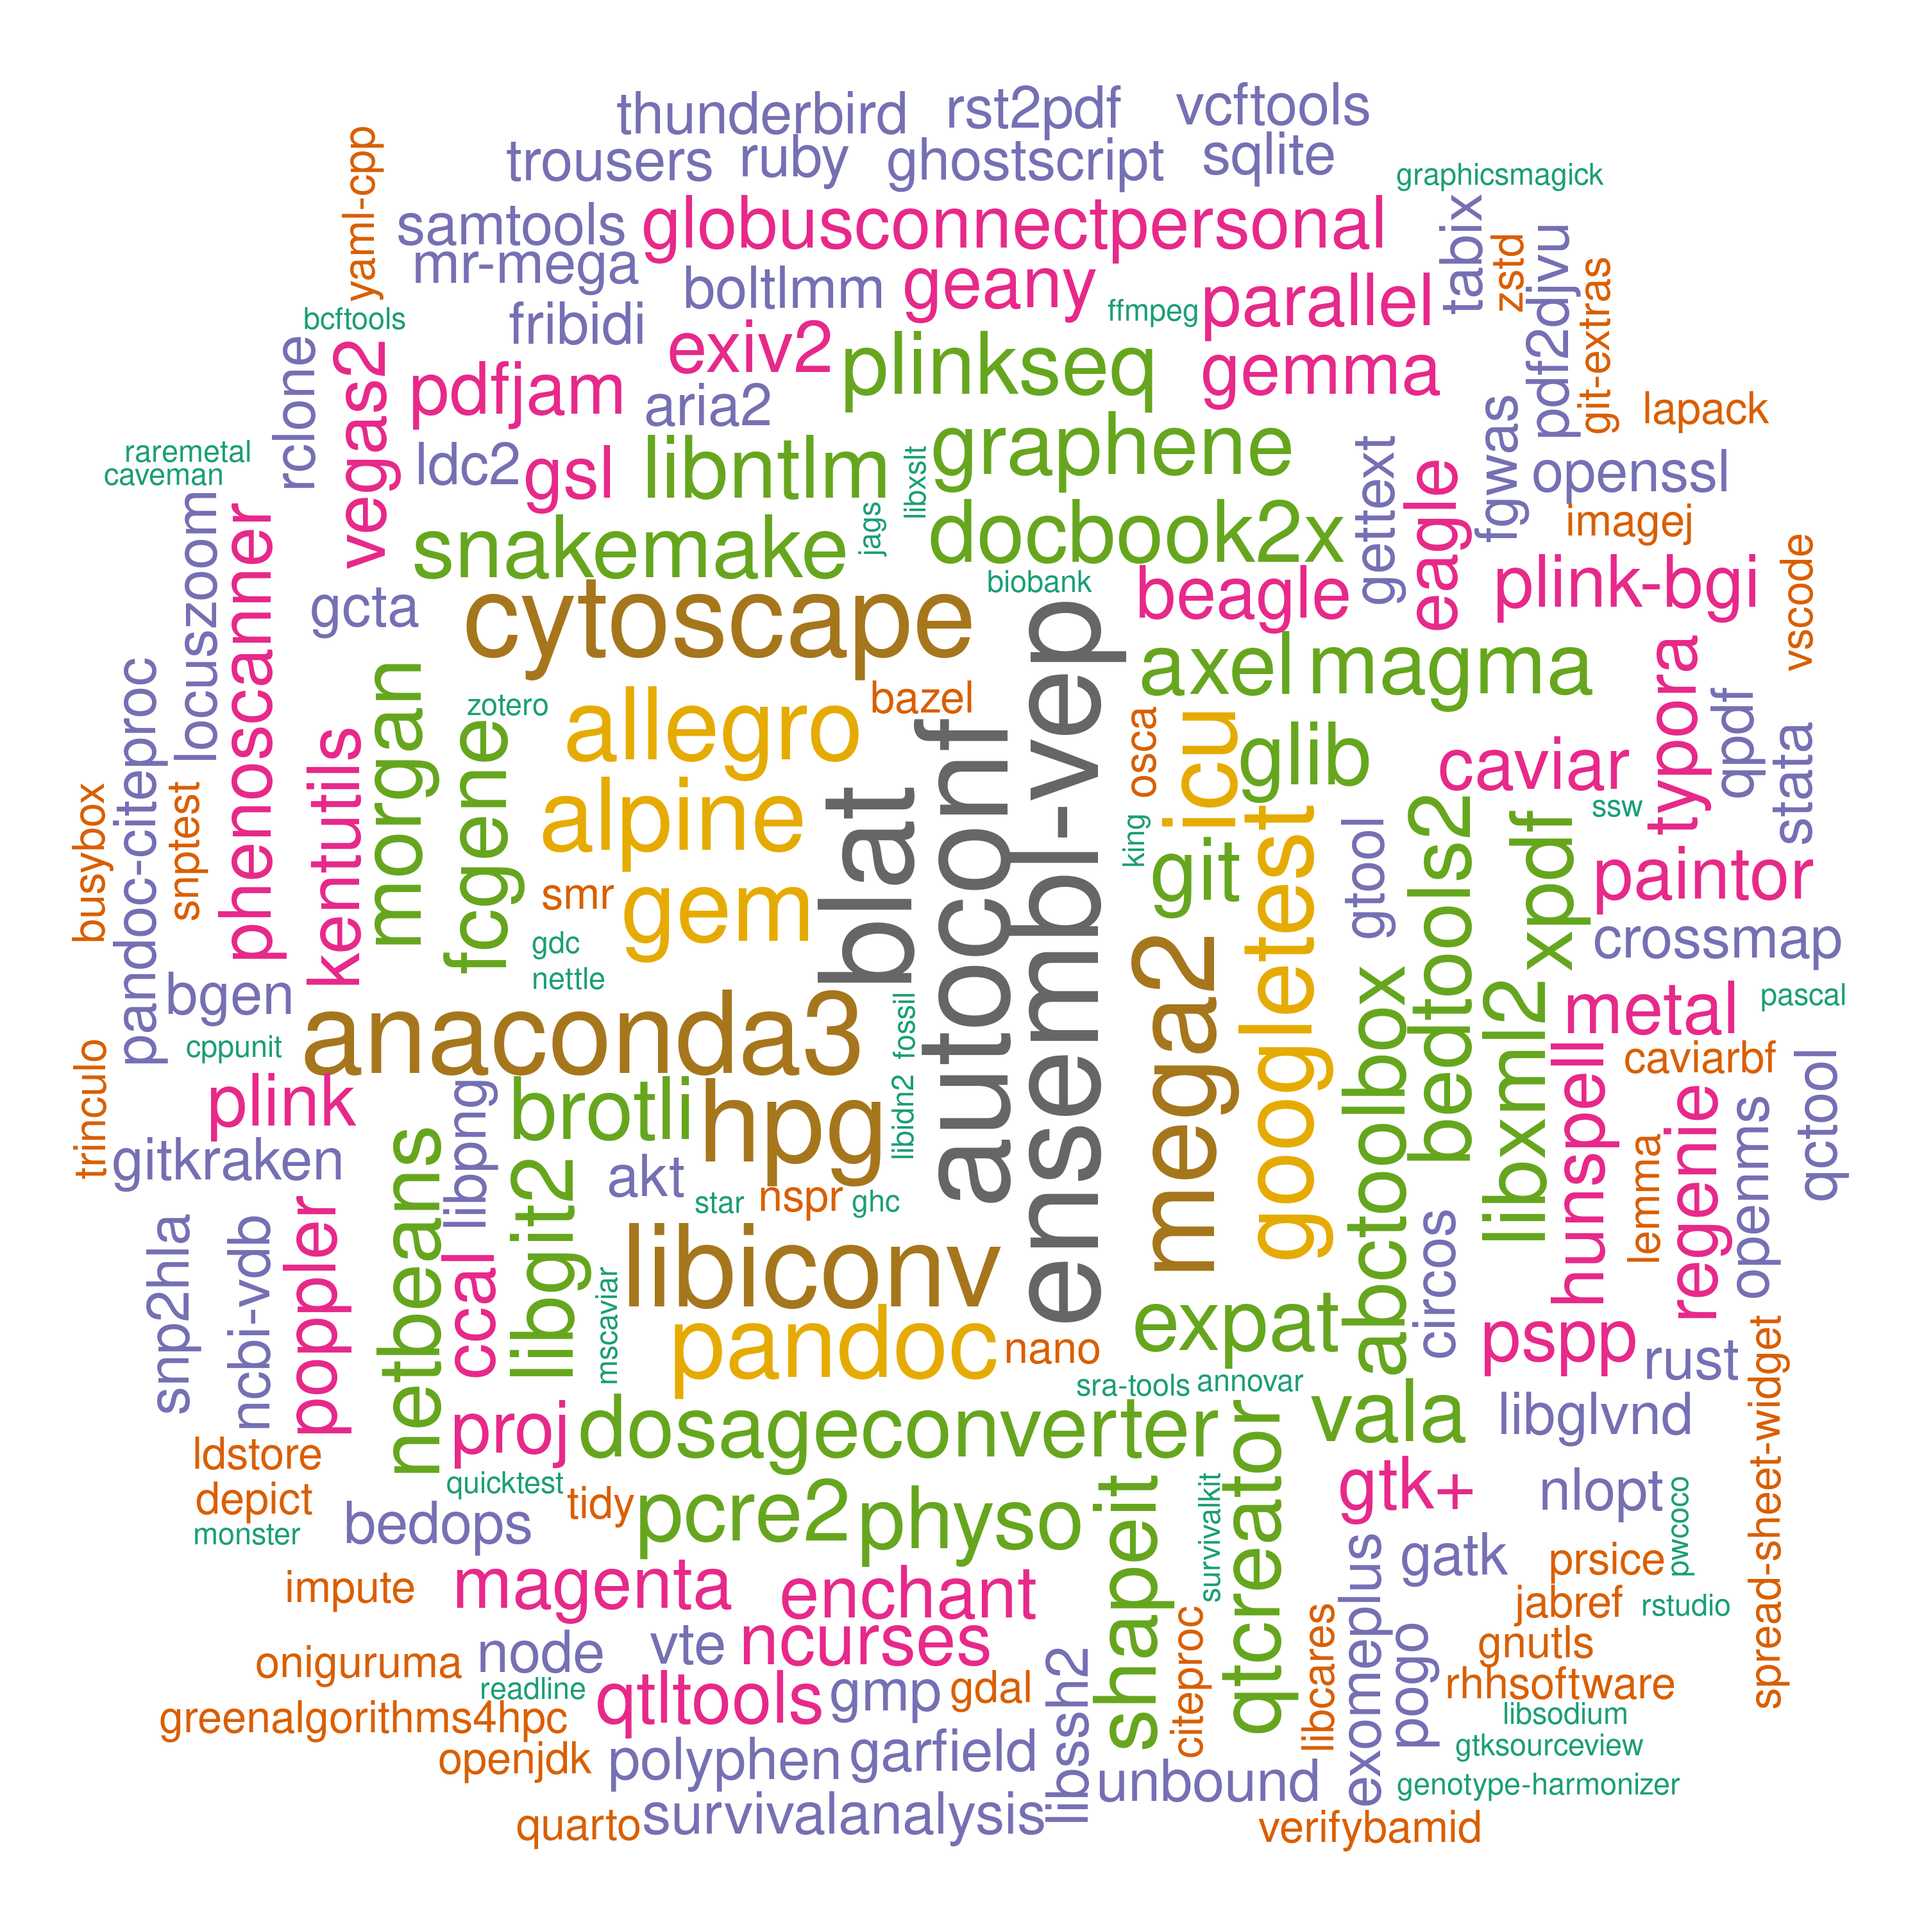
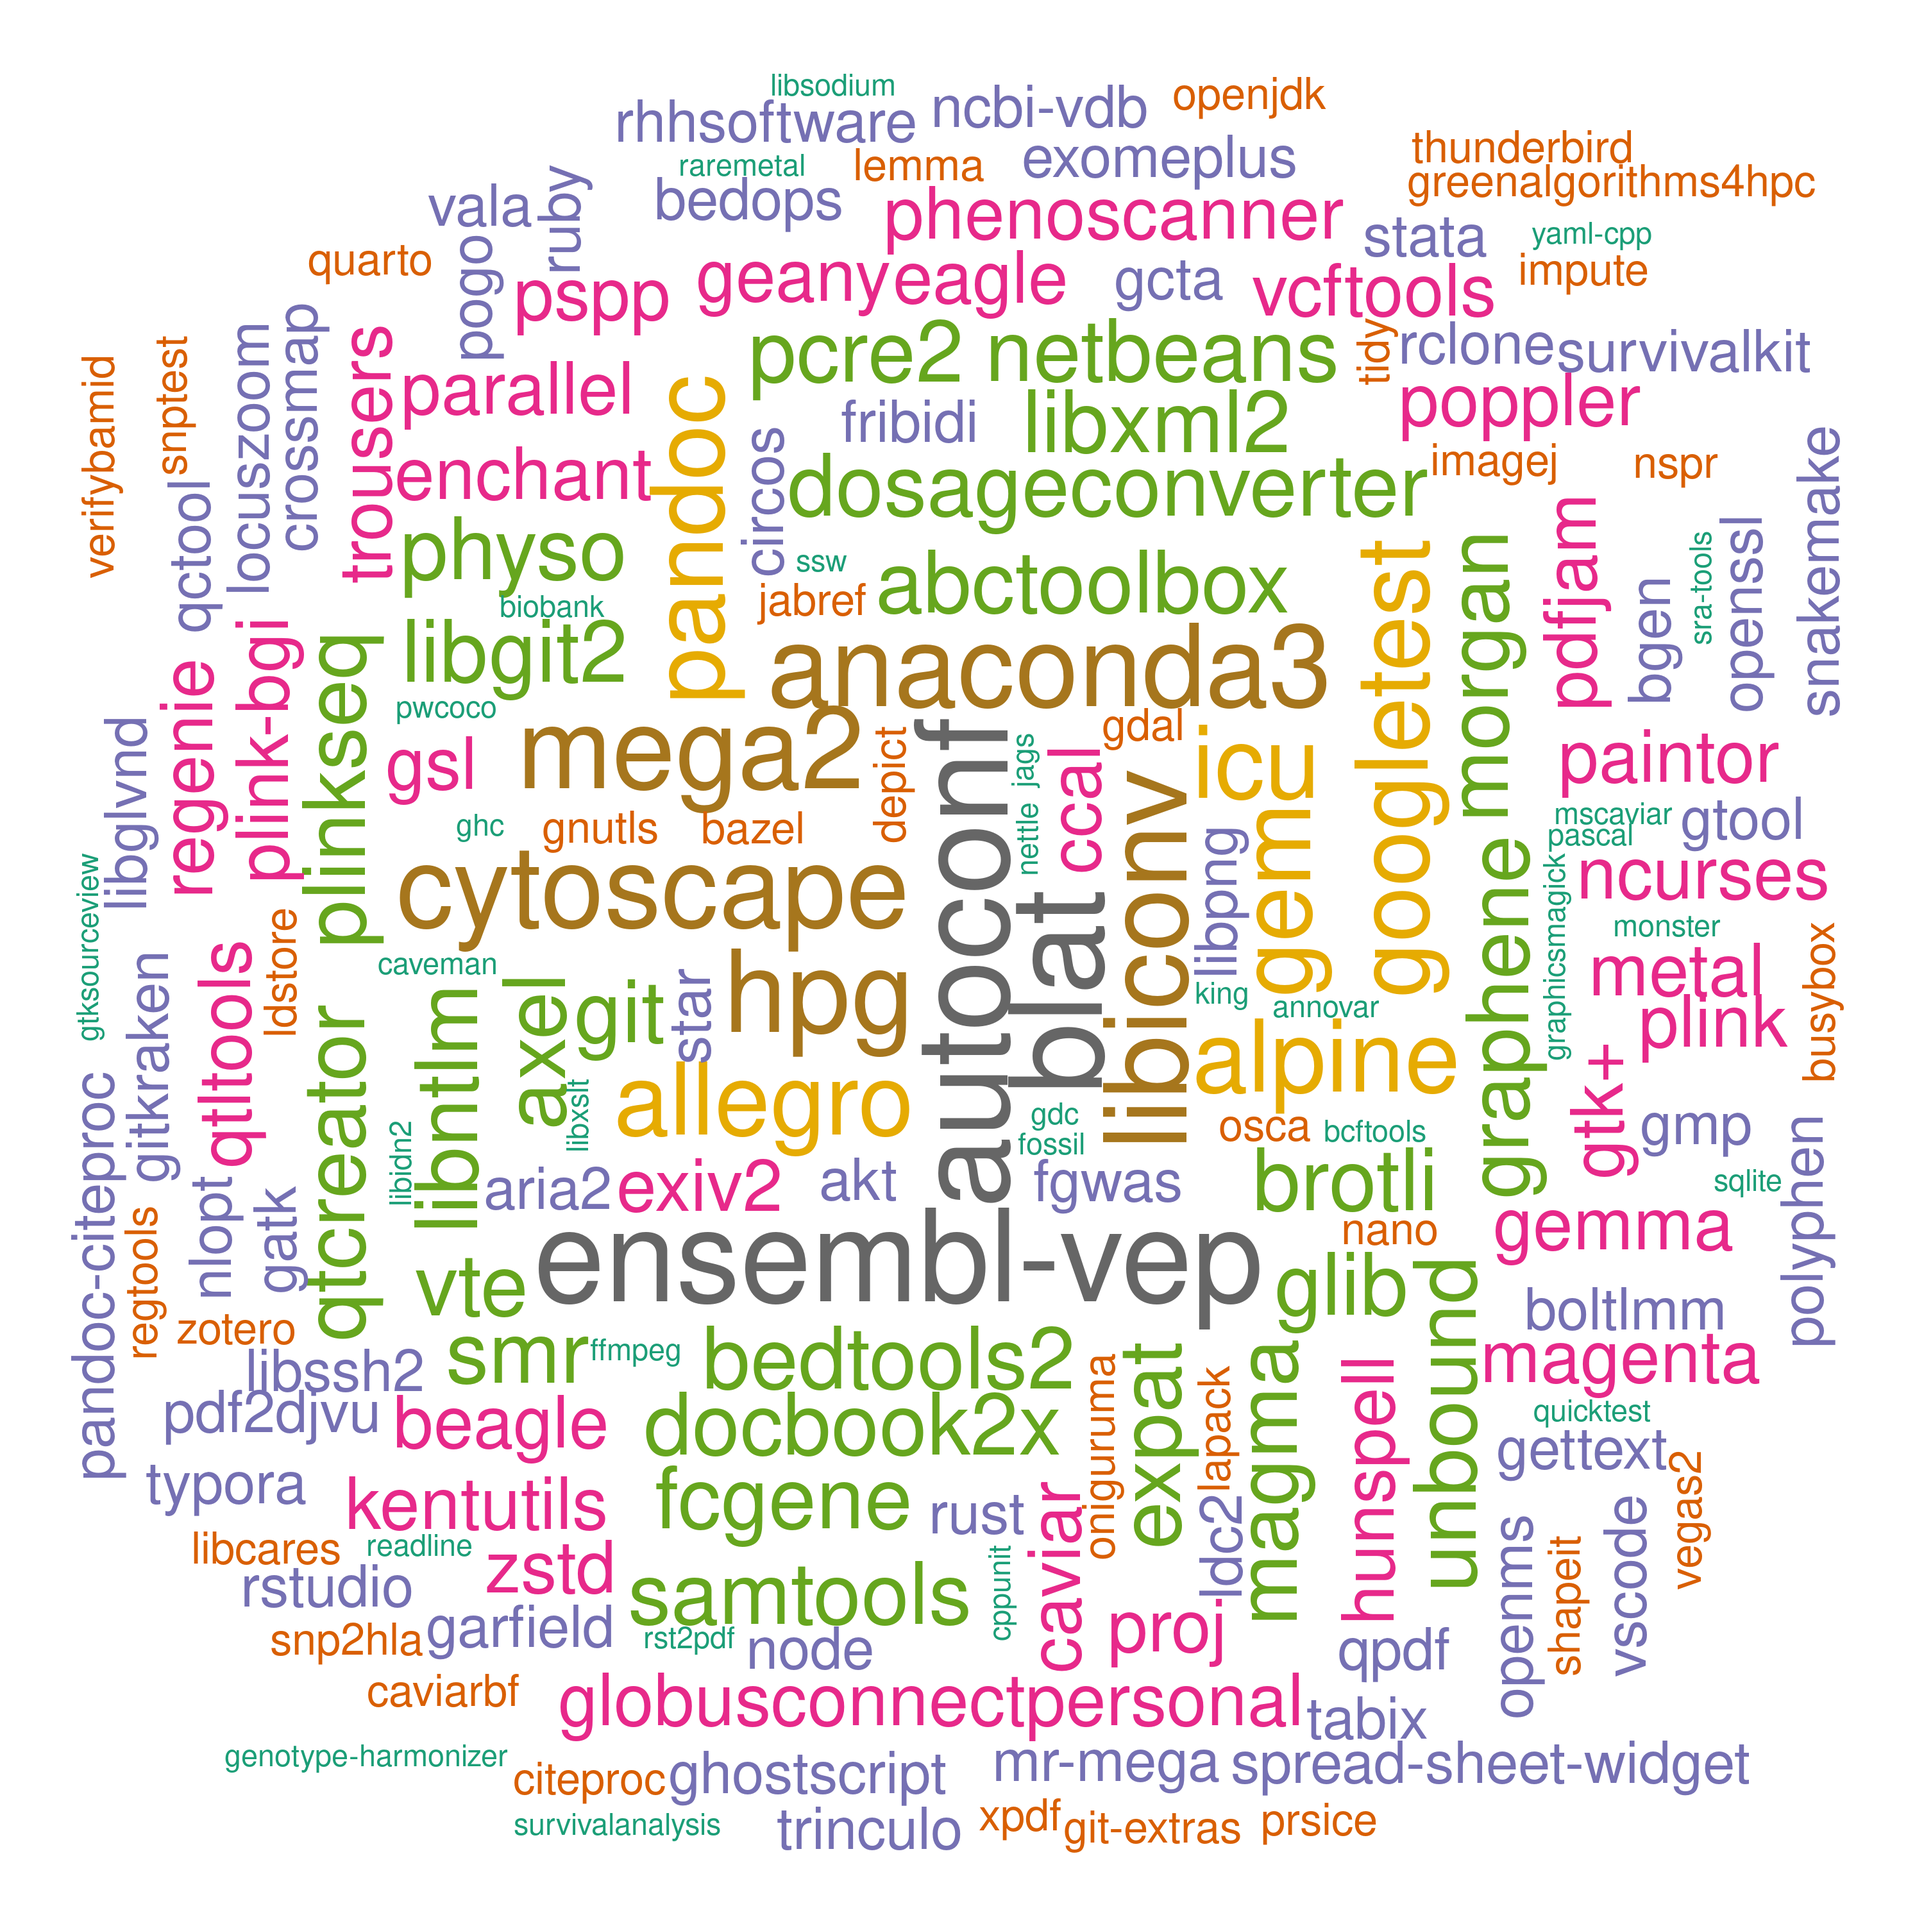
./

Changed region(s): [[0.031, 0.031, 0.961, 0.961]]

diff --git a/systems/files/ceuadmin.md b/systems/files/ceuadmin.md
@@ -57,19 +57,19 @@ The current list is as follows[^ls],
 [148] "qt"                    "qtcreator"             "QTLtools"
 [151] "quarto"                "quicktest"             "R"
 [154] "raremetal"             "rclone"                "readline"
-[157] "regenie"               "RHHsoftware"           "rst2pdf"
-[160] "rstudio"               "ruby"                  "rust"
-[163] "samtools"              "shapeit"               "SMR"
-[166] "snakemake"             "SNP2HLA"               "snptest"
-[169] "spread-sheet-widget"   "sqlite"                "sra-tools"
-[172] "ssw"                   "STAR"                  "stata"
-[175] "SurvivalAnalysis"      "SurvivalKit"           "tabix"
-[178] "thunderbird"           "tidy"                  "trinculo"
-[181] "trousers"              "Typora"                "unbound"
-[184] "vala"                  "vcftools"              "VEGAS2"
-[187] "verifyBamID"           "VSCode"                "vte"
-[190] "xpdf"                  "yaml-cpp"              "Zotero"
-[193] "zstd"
+[157] "regenie"               "regtools"              "RHHsoftware"
+[160] "rst2pdf"               "rstudio"               "ruby"
+[163] "rust"                  "samtools"              "shapeit"
+[166] "SMR"                   "snakemake"             "SNP2HLA"
+[169] "snptest"               "spread-sheet-widget"   "sqlite"
+[172] "sra-tools"             "ssw"                   "STAR"
+[175] "stata"                 "SurvivalAnalysis"      "SurvivalKit"
+[178] "tabix"                 "thunderbird"           "tidy"
+[181] "trinculo"              "trousers"              "Typora"
+[184] "unbound"               "vala"                  "vcftools"
+[187] "VEGAS2"                "verifyBamID"           "VSCode"
+[190] "vte"                   "xpdf"                  "yaml-cpp"
+[193] "Zotero"                "zstd"
 ```
 
 Most should be available to all CSD3 users in the whole campus, e.g., for pspp, a brief description of a module is available with
@@ -315,6 +315,7 @@ They are ordered chronologically.
 | 2023-12-13  | rust/1.74.1                      | Generic              |
 | 2023-12-20  | verifyBamID/1.1.3                | Genetics             |
 | 2023-12-21  | verifyBamID/2.0.1                | Genetics[^VB2]       |
+| 2023-12-27  | regtools/1.0.0                   | Genetics[^regtools]  |
 
 \* CEU or approved users only.
 
@@ -619,3 +620,5 @@ Three aspects are notable,
 [^gdc]: It also includes gdc_dtt-ui 1.0.0
 
 [^VB2]: To build from source, module `htslib-1.9-gcc-5.4.0-p2taavl` is needed yet with message `/usr/bin/ld: warning: libbz2.so.1.0, needed by /usr/local/software/spack/spack-0.11.2/opt/spack/linux-rhel7-x86_64/gcc-5.4.0/htslib-1.9-p2taavlu3ieppo25otjfgvfu5tysbgho/lib/libhts.so, may conflict with libbz2.so.1`. In fact, 1 == 1.0 so it is ignored.
+
+[^regtools]: gcc/6 is required.

diff --git a/systems/ceuadmin.md b/systems/ceuadmin.md
@@ -8,7 +8,7 @@ The CEU software repository is here, **/usr/local/Cluster-Apps/ceuadmin/**.
 
 ![ceuadmin](ceuadmin.png)
 
-A word cloud diagram is generated from the following R script, noting that the importance of software is purely random according to $$Poisson(N,\lambda)$$ where $$N=193$$, $$\lambda=3$$.
+A word cloud diagram is generated from the following R script, noting that the importance of software is purely random according to $$Poisson(N,\lambda)$$ where $$N=194$$, $$\lambda=3$$.
 
 ```r
 library(RColorBrewer)
@@ -86,19 +86,19 @@ The current list is as follows,
 [148] "qt"                    "qtcreator"             "QTLtools"
 [151] "quarto"                "quicktest"             "R"
 [154] "raremetal"             "rclone"                "readline"
-[157] "regenie"               "RHHsoftware"           "rst2pdf"
-[160] "rstudio"               "ruby"                  "rust"
-[163] "samtools"              "shapeit"               "SMR"
-[166] "snakemake"             "SNP2HLA"               "snptest"
-[169] "spread-sheet-widget"   "sqlite"                "sra-tools"
-[172] "ssw"                   "STAR"                  "stata"
-[175] "SurvivalAnalysis"      "SurvivalKit"           "tabix"
-[178] "thunderbird"           "tidy"                  "trinculo"
-[181] "trousers"              "Typora"                "unbound"
-[184] "vala"                  "vcftools"              "VEGAS2"
-[187] "verifyBamID"           "VSCode"                "vte"
-[190] "xpdf"                  "yaml-cpp"              "Zotero"
-[193] "zstd"
+[157] "regenie"               "regtools"              "RHHsoftware"
+[160] "rst2pdf"               "rstudio"               "ruby"
+[163] "rust"                  "samtools"              "shapeit"
+[166] "SMR"                   "snakemake"             "SNP2HLA"
+[169] "snptest"               "spread-sheet-widget"   "sqlite"
+[172] "sra-tools"             "ssw"                   "STAR"
+[175] "stata"                 "SurvivalAnalysis"      "SurvivalKit"
+[178] "tabix"                 "thunderbird"           "tidy"
+[181] "trinculo"              "trousers"              "Typora"
+[184] "unbound"               "vala"                  "vcftools"
+[187] "VEGAS2"                "verifyBamID"           "VSCode"
+[190] "vte"                   "xpdf"                  "yaml-cpp"
+[193] "Zotero"                "zstd"
 ```
 
 These are wrapped up as :star::star::star: **[modules](https://modules.readthedocs.io/en/latest/index.html)** :star::star::star:.
